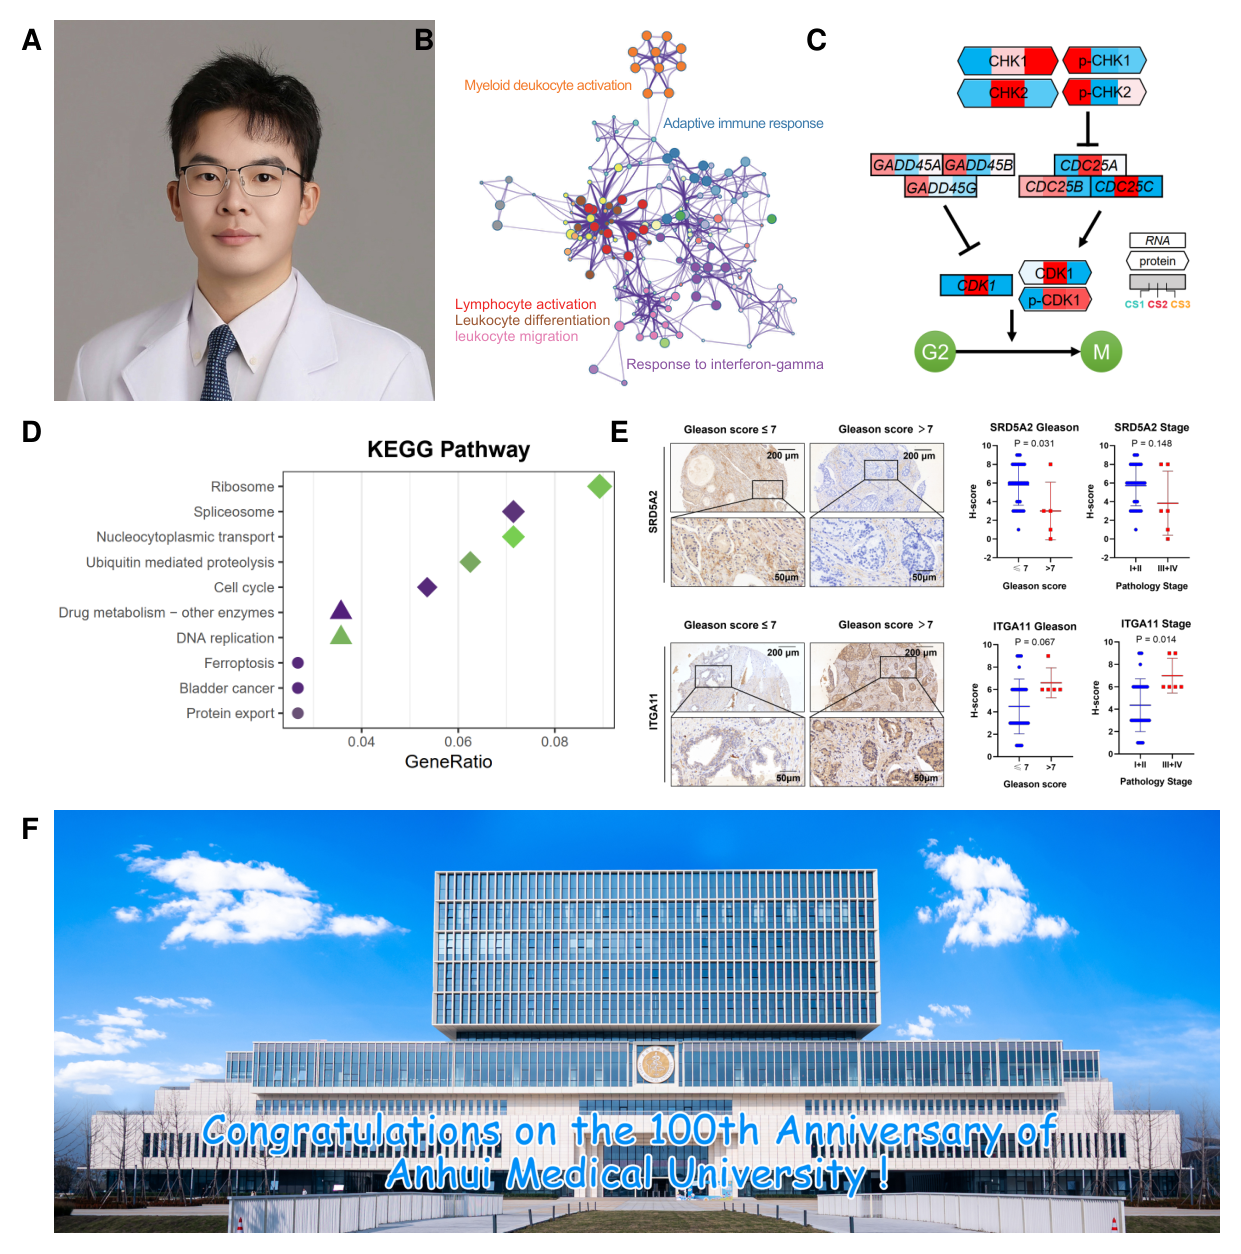
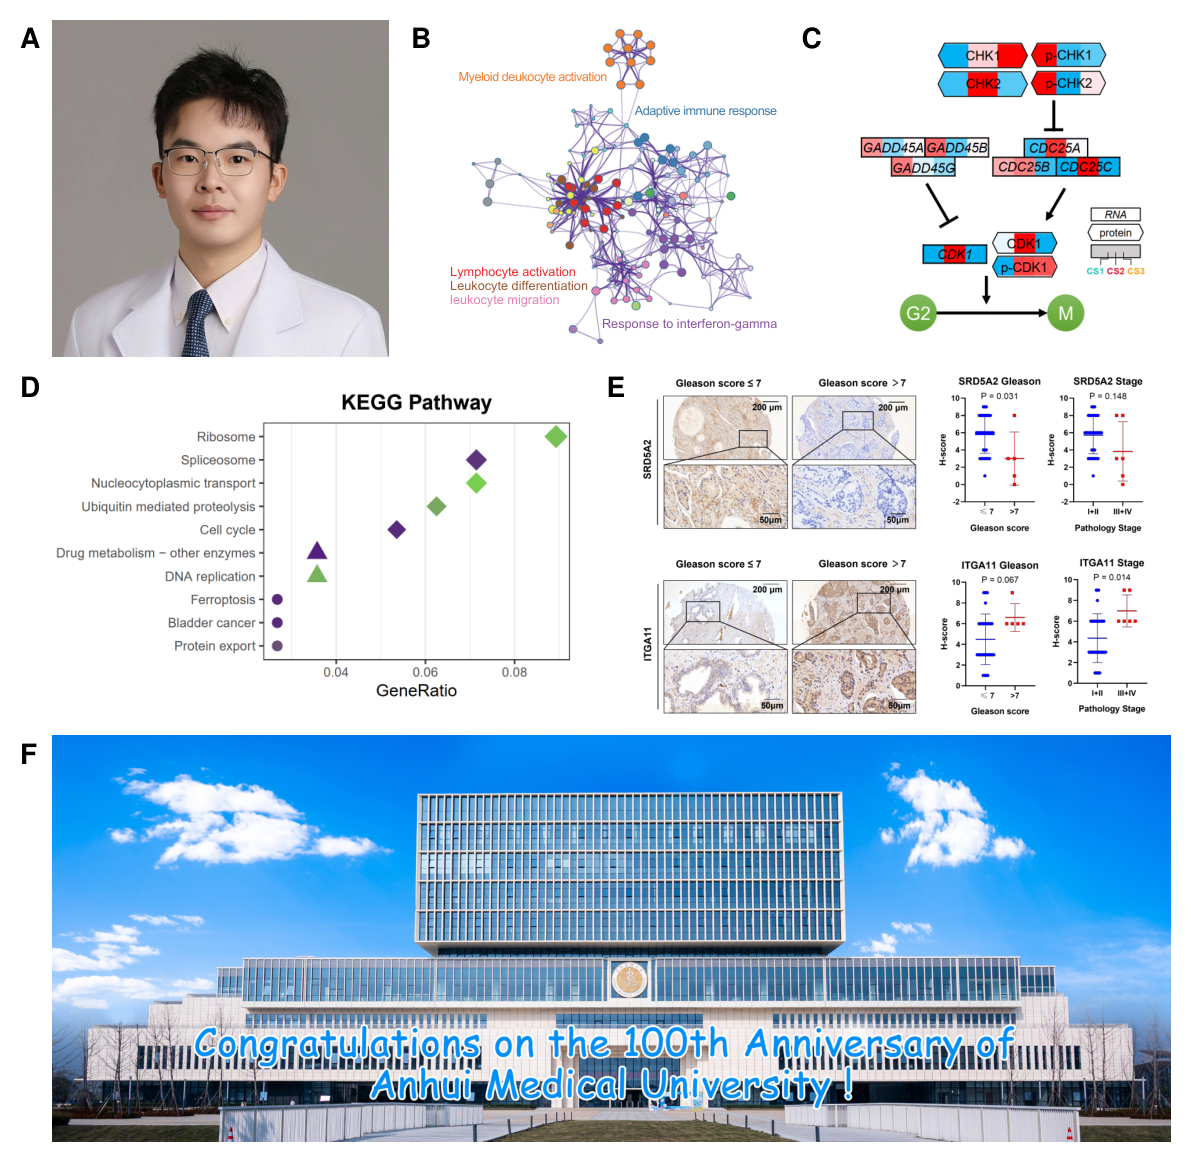
Add inter-panel label spacing and update demo image
Reserve ~21pt (1.5× label font size) between panels so labels
don't overlap with the previous panel. Update demo_figure5.png
with a 3,2,1 layout example showing the new spacing.

Generated with [Claude Code](https://claude.ai/code)
via [Happy](https://happy.engineering)

Changed region(s): [[0.0, 0.0, 0.9941, 0.9914], [0.6524, 0.0, 0.6835, 0.062]]

diff --git a/panelpack/cli.py b/panelpack/cli.py
@@ -365,6 +365,9 @@ def compute_geometry(
     weights instead of being derived from aspect ratios.
     """
     label_col = 0.0 if no_labels else (label_size + 2)
+    # Reserve space between panels for the next panel's label (~1.5× label width)
+    label_right = 0.0 if no_labels else (label_size * 1.5)
+    inter_gap = gap + label_right  # gap between panels (includes label room)
     content_w = page_w - 2 * margin - label_col
     n_rows = len(panel_rows)
     available_h = page_h - 2 * margin - (n_rows - 1) * gap
@@ -377,7 +380,7 @@ def compute_geometry(
         raw_heights = []
         for row_panels, row_ratios in zip(panel_rows, ratios):
             n_cols = len(row_panels)
-            avail_w = content_w - (n_cols - 1) * gap
+            avail_w = content_w - (n_cols - 1) * inter_gap
             col_widths = [r * avail_w for r in row_ratios]
             h = max(cw / (p.src_w / p.src_h) for p, cw in zip(row_panels, col_widths))
             raw_heights.append(h)
@@ -393,7 +396,7 @@ def compute_geometry(
     y = margin
     for row_panels, row_ratios, row_h in zip(panel_rows, ratios, row_heights):
         n_cols = len(row_panels)
-        avail_w = content_w - (n_cols - 1) * gap
+        avail_w = content_w - (n_cols - 1) * inter_gap
         col_widths = [r * avail_w for r in row_ratios]
 
         x = margin + label_col
@@ -417,7 +420,7 @@ def compute_geometry(
                 panel=p, x=dx, y=dy, w=dw, h=dh,
                 label_x=lx, label_y=ly,
             ))
-            x += cw + gap
+            x += cw + inter_gap
         y += row_h + gap
 
     # Actual content height (last gap replaced by margin)
@@ -493,11 +496,13 @@ def calc_panel_sizes(
         page_w, page_h = page_h, page_w
 
     label_col = 0.0 if no_labels else (label_size + 2)
+    label_right = 0.0 if no_labels else (label_size * 1.5)
+    inter_gap = gap + label_right
     content_w = page_w - 2 * margin - label_col
 
     results = []
     for n in range(1, max_cols + 1):
-        avail = content_w - (n - 1) * gap
+        avail = content_w - (n - 1) * inter_gap
         w_pt = avail / n
         w_mm = w_pt / PT_PER_MM
         w_inch = w_pt / PT_PER_INCH
